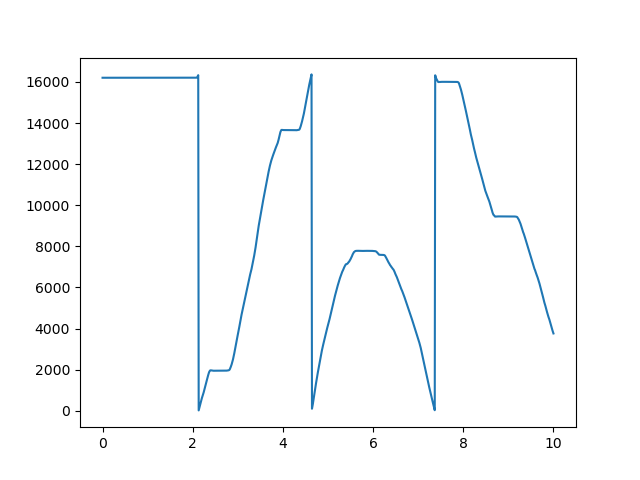
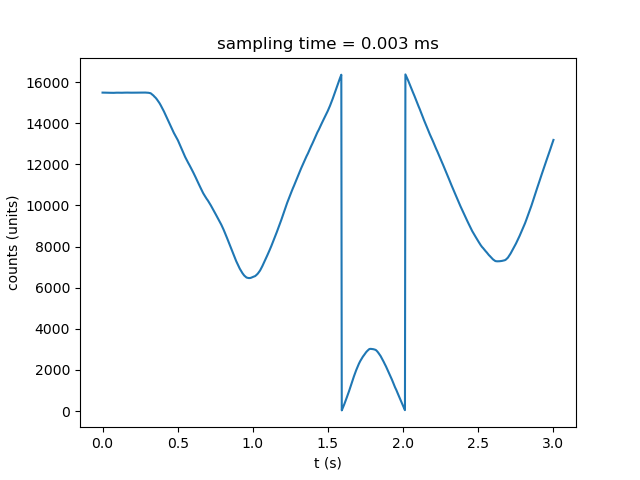
update files

diff --git a/practice_1/task2.2.py b/practice_1/task2.2.py
@@ -20,8 +20,10 @@ def parse_sensor_data(reply):
 
 import matplotlib.pyplot as plt
 
+direction = "mixed"
+
 try:
-    t = 5
+    t = 3
     n = 1000
     dt = t/n
     N = 2**14
@@ -29,7 +31,6 @@ try:
     prev = 0
     threshold = 16000
     a = np.zeros(n)
-
     
     for i in range(n):
         encoder.execute()
@@ -56,7 +57,8 @@ try:
     plt.plot(t, a)
     plt.xlabel("t [s]")
     plt.ylabel("$\\theta$ [rad]")
-    plt.savefig("practice_1/plots/2.2.png")
+    plt.title(f"{direction} rotation")
+    plt.savefig(f"practice_1/plots/2.2/{direction}.png")
     plt.show()
 
 except KeyboardInterrupt:

diff --git a/practice_1/task2.1.py b/practice_1/task2.1.py
@@ -21,7 +21,7 @@ def parse_sensor_data(reply):
 import matplotlib.pyplot as plt
 
 try:
-    t = 10
+    t = 3
     n = 1000
     dt = t/n
     a = np.zeros(n)
@@ -33,6 +33,9 @@ try:
     
     t = np.linspace(0,t,n)
     plt.plot(t, a)
+    plt.xlabel("t (s)")
+    plt.ylabel("counts (units)")
+    plt.title(f"sampling time = {dt} ms")
     plt.savefig("practice_1/plots/2.1.png")
     plt.show()
 
